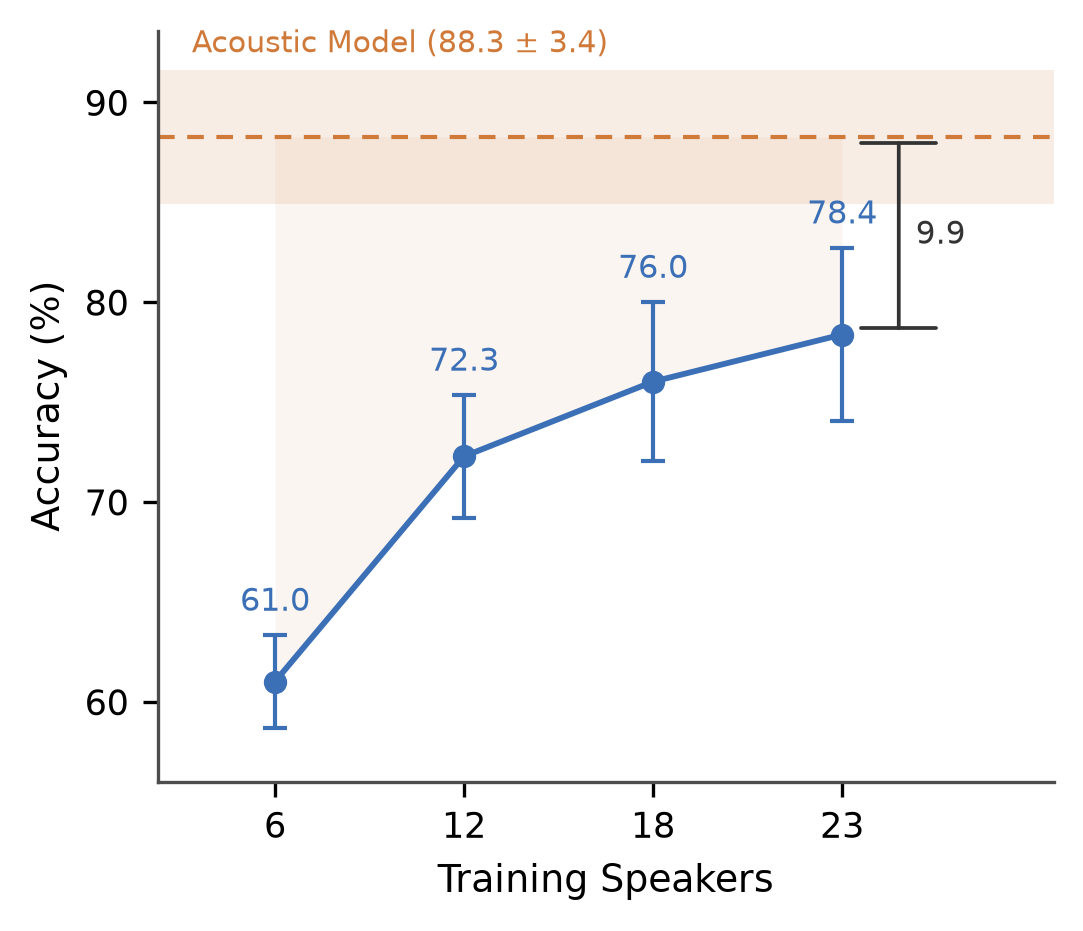
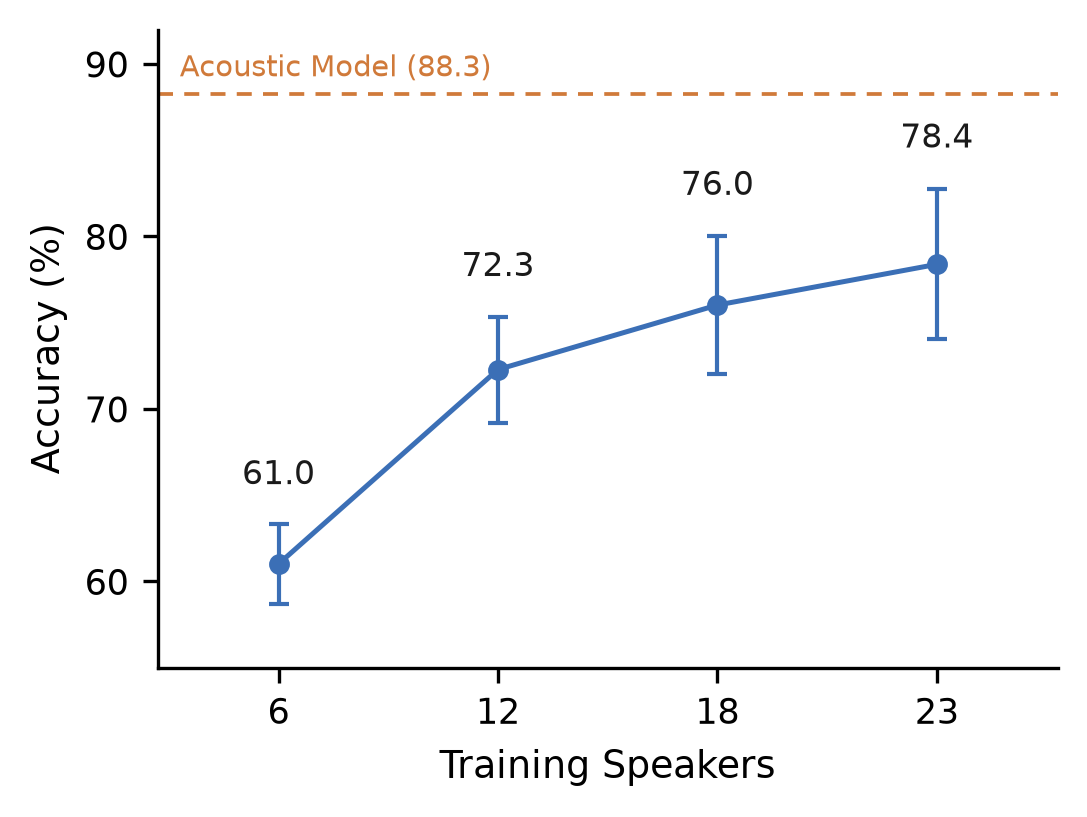
Roll Fig. 2 back to the plain design; black point values
The band, gap shading and gap bracket each read as a second data series
in the same orange as the acoustic reference, which is worse than the
empty space they filled. Back to one series, one dashed reference, no
fills. Point values are now black rather than blue (they were competing
with the series colour) and the labels stay Title Case.

Caption reverted to match.

Changed region(s): [[0.0305, 0.0306, 0.9751, 0.9792], [0.4266, 0.306, 0.4875, 0.3366]]

diff --git a/scripts/make_scaling_figure.py b/scripts/make_scaling_figure.py
@@ -1,13 +1,13 @@
 """Training-set-size curve for the TASLP manuscript (Fig. 2).
 
 Reads the EMA-only BiLSTM speaker sweep produced by ``scripts/run_scaling.py``
-(``runs/scaling/spk_k*.json`` plus optional ``_s1`` extra-seed files).
+(``runs/scaling/spk_k*.json`` plus optional ``_s1`` extra-seed files) and writes
+a single-column figure in the same style as the other data panels.
 
-Drawn in the same language as the other data figures: two colours, no grid, no
-in-plot title, capped error bars, open frame. What fills the panel is content
-rather than decoration: the acoustic model is a band carrying its own spread,
-the deficit between the two is shaded, and the remaining gap is measured once at
-the right-hand end.
+Kept deliberately plain: one series, capped error bars, a dashed reference for the
+acoustic model, point values in black. Adding a second orange element (a band
+around the reference, or shading under the curve) reads as a second data series
+rather than as annotation, which is why the reference stays a single dashed line.
 
 Usage::
 
@@ -32,16 +32,14 @@ REPO = os.path.dirname(os.path.dirname(os.path.abspath(__file__)))
 RUNS = os.path.join(REPO, "runs", "scaling")
 OUT_DEFAULT = os.path.join(REPO, "paper", "illustrations")
 
-# Full 106-D acoustic model on the same folds: 88.28 +- 3.36 over 6 folds x 2 seeds
-# (paper/results/exp1_ceilings.json).
-ACOUSTIC, ACOUSTIC_SD = 88.28, 3.36
+# Full 106-D acoustic model, 6 folds x 2 seeds (paper/results/exp1_ceilings.json).
+ACOUSTIC = 88.28
 
 EMA_C = "#3B6FB6"
 ACO_C = "#D07A3A"
-INK = "#333333"
+INK = "#1A1A1A"
 plt.rcParams.update({
     "font.size": 9, "axes.spines.top": False, "axes.spines.right": False,
-    "axes.edgecolor": "#4D4D4D", "axes.linewidth": 0.8,
     "xtick.labelsize": 8.5, "ytick.labelsize": 8.5,
     "figure.dpi": 300, "savefig.dpi": 300, "font.family": "DejaVu Sans",
 })
@@ -75,49 +73,32 @@ def main():
     m, s = zip(*[stats_cfg(f"spk_k{k:02d}") for k in ks])
     x = np.arange(len(ks))
 
-    fig, ax = plt.subplots(figsize=(3.5, 3.0))
+    fig, ax = plt.subplots(figsize=(3.5, 2.6))
 
-    # Acoustic model as a band, so the reference carries the spread of its own runs.
-    ax.axhspan(ACOUSTIC - ACOUSTIC_SD, ACOUSTIC + ACOUSTIC_SD,
-               color=ACO_C, alpha=0.13, lw=0, zorder=0)
-    ax.axhline(ACOUSTIC, color=ACO_C, ls=(0, (4, 3)), lw=1.0, zorder=1)
-    ax.fill_between(x, m, ACOUSTIC, color=ACO_C, alpha=0.07, lw=0, zorder=0)
+    ax.axhline(ACOUSTIC, color=ACO_C, ls=(0, (4, 3)), lw=0.9, zorder=1)
+    ax.text(-0.45, ACOUSTIC + 0.6, f"Acoustic Model ({ACOUSTIC:.1f})",
+            color=ACO_C, fontsize=7, ha="left", va="bottom")
 
-    ax.errorbar(x, m, yerr=s, fmt="-o", color=EMA_C, ms=4.6, lw=1.4,
-                capsize=2.8, elinewidth=1.0, capthick=1.0, zorder=3)
+    ax.errorbar(x, m, yerr=s, fmt="-o", color=EMA_C, ms=4, lw=1.2,
+                capsize=2.5, elinewidth=1.0, zorder=3)
     for xi, mi, si in zip(x, m, s):
-        ax.annotate(f"{mi:.1f}", (xi, mi + si), textcoords="offset points",
-                    xytext=(0, 4), ha="center", va="bottom",
-                    fontsize=7.6, color=EMA_C)
-
-    # The remaining deficit, measured once at the last condition. The caption states
-    # the same number, so this is a pointer rather than a second claim.
-    gap = ACOUSTIC - m[-1]
-    xa = x[-1] + 0.30
-    ax.annotate("", xy=(xa, ACOUSTIC), xytext=(xa, m[-1]),
-                arrowprops=dict(arrowstyle="|-|", color=INK, lw=0.9,
-                                shrinkA=1.5, shrinkB=1.5))
-    ax.text(xa + 0.09, (ACOUSTIC + m[-1]) / 2, f"{gap:.1f}",
-            ha="left", va="center", fontsize=7.4, color=INK)
-
-    ax.text(-0.44, ACOUSTIC + ACOUSTIC_SD + 0.5,
-            f"Acoustic Model ({ACOUSTIC:.1f} $\\pm$ {ACOUSTIC_SD:.1f})",
-            color=ACO_C, fontsize=7.2, ha="left", va="bottom")
+        ax.annotate(f"{mi:.1f}", (xi, mi), textcoords="offset points",
+                    xytext=(0, 7 + si * 4.4), ha="center", va="bottom",
+                    fontsize=8, color=INK)
 
     ax.set_xticks(x)
     ax.set_xticklabels([str(k) for k in ks])
-    ax.set_xlim(-0.62, len(ks) + 0.12)
+    ax.set_xlim(-0.55, len(ks) - 0.45)
     ax.set_xlabel("Training Speakers")
     ax.set_ylabel("Accuracy (%)")
-    ax.set_ylim(56, 93.6)
+    ax.set_ylim(55, 92)
     ax.set_yticks([60, 70, 80, 90])
 
-    fig.tight_layout(pad=0.35)
+    fig.tight_layout(pad=0.3)
     p = os.path.join(args.out, "fig_scaling.png")
     figcheck.save(fig, p, bbox_inches="tight")
     print("wrote", p)
     print("  " + "  ".join(f"{k} spk {mi:.2f}+-{si:.2f}" for k, mi, si in zip(ks, m, s)))
-    print(f"  remaining gap at {ks[-1]} speakers: {gap:.2f} points")
     plt.close(fig)
 
 
